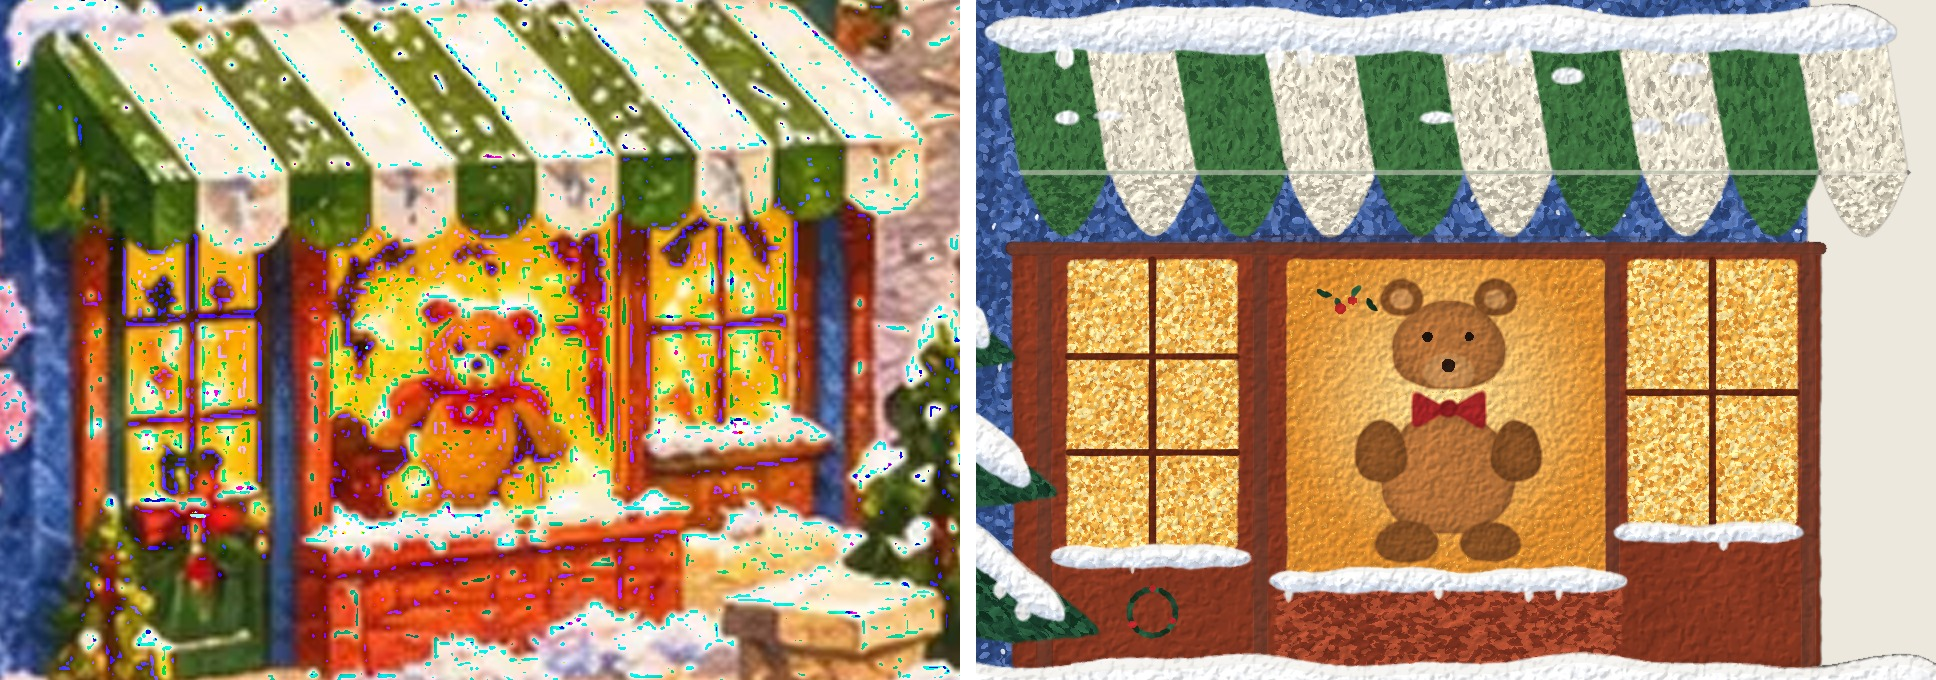
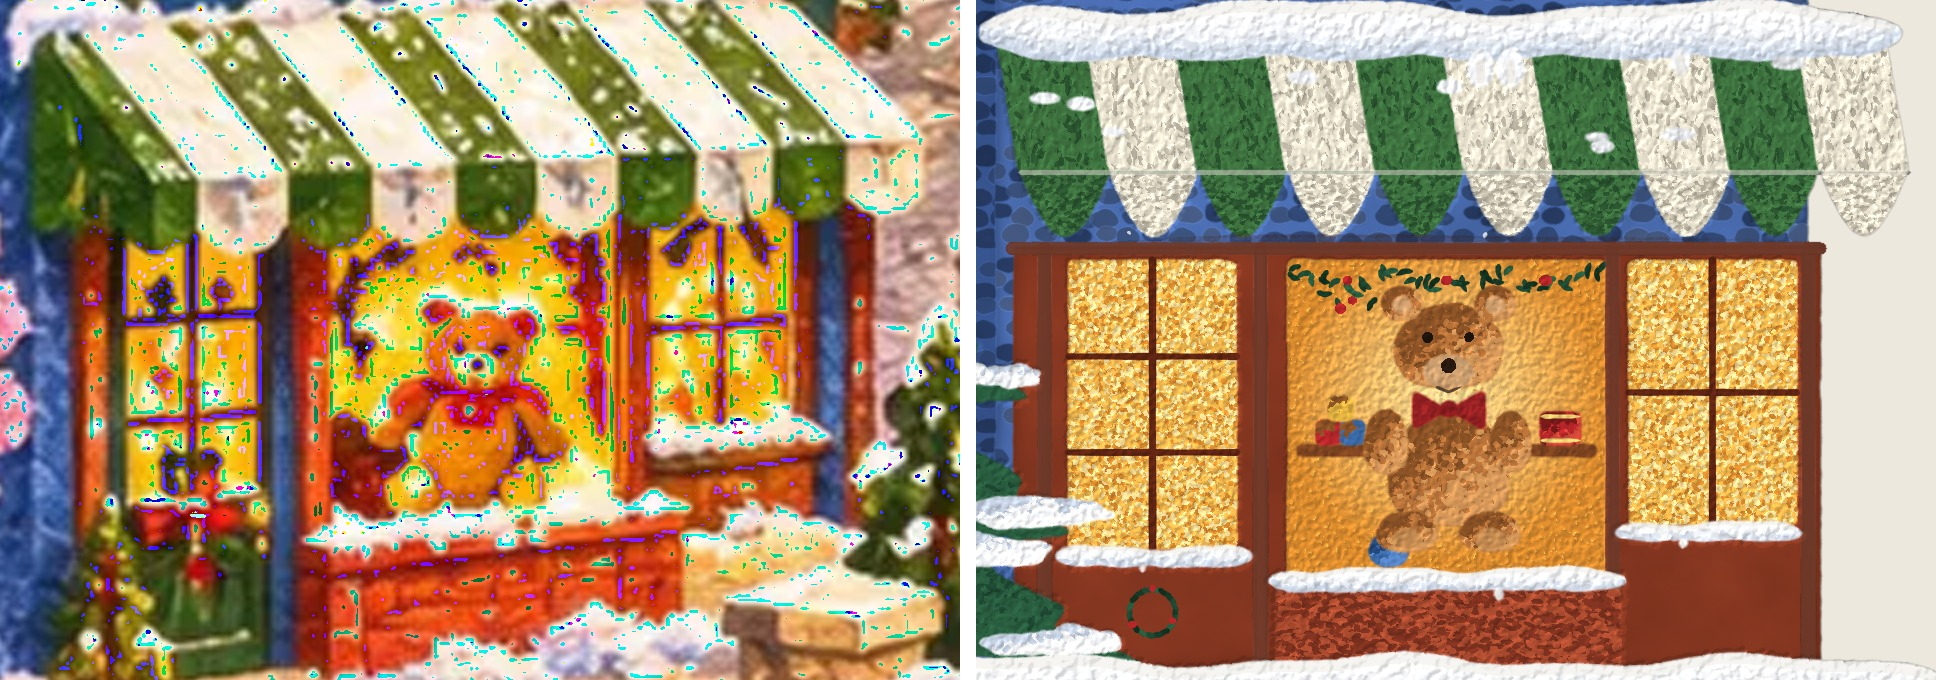
Blue shop v3, refinement round: hand-pressed stucco, tile courses, fuller eaves, branchy snowy fir, shaded bear and display toys
Claude-Session: https://claude.ai/code/session_017tNAHgSCzTbES1SzX2uUW2

Changed region(s): [[0.4959, 0.0, 1.0, 1.0]]

diff --git a/usmap/closeup/toytown/build_blue_shop.py b/usmap/closeup/toytown/build_blue_shop.py
@@ -27,7 +27,7 @@ GLOW = np.zeros((c.H, c.W), np.float32)
 R = np.random.RandomState(12)
 
 # ---- palette (the map's calmer range) ----
-BLUE, BLUE_D, BLUE_L = '#3b5a98', '#2c4478', '#5a78b6'
+BLUE, BLUE_D, BLUE_L = '#4a6cb0', '#37548f', '#6c8ac6'
 CREAM, CREAM_D = '#ecdcbd', '#c9b48f'
 ROOF, ROOF_D = '#953a33', '#6e2925'
 SNOW, SNOW_S, SNOW_H = '#f1f3f7', '#c4cfe0', '#ffffff'
@@ -97,9 +97,11 @@ def snow_edge(pts, thick=7.0, drip=.25, under=True):
         return np.clip(col * (1 + (r.rand(len(X), 1) - .5) * .05), 0, 1)
     c.stip(m, scol, spacing=1.0, L=2.4, w=1.5, seed=int(R.randint(1 << 20)), jit=.5, thresh=.3)
     if drip:
-        for q in lo[2:-2:3]:
-            if R.rand() < drip:
-                A(lump(q[0], q[1] + thick * .25, thick * .28, thick * .45, amp=.08), SNOW, wob=.15, rough=.4, edge_dark=.0)
+        idx = sorted(R.choice(np.arange(2, max(3, len(lo) - 2)), size=max(1, int(len(lo) * drip / 6)), replace=False))
+        for q in [lo[i] for i in idx]:
+            if True:
+                g = R.uniform(.6, 1.4)
+                A(lump(q[0], q[1] + thick * .25 * g, thick * .26 * g, thick * .45 * g, amp=.08), SNOW, wob=.15, rough=.4, edge_dark=.0)
                 S([(q[0], q[1] + thick * .15), (q[0], q[1] + thick * .55)], thick * .2, SNOW_S, a=.35, dry=.4)
     S([tuple(q + np.array([0, thick * .12])) for q in up[1:-1]], thick * .28, SNOW_H, a=.6, dry=.45, taper=(.3, .3))
 
@@ -111,18 +113,52 @@ def eave_shadow(pts, thick=8.0, col=None):
 def snow_cap(x0, x1, y, thick=5.0):
     snow_edge([(x0, y), (x1, y)], thick, drip=.1)
 
+def shaded(pts, cols, light=(-.6, -.8), a=1.0, spacing=.9, L=1.8, w=1.2, **kw):
+    """An area lit from the upper left: its dabs pick light, mid or dark colour by facing."""
+    m = A(pts, cols[1], a=a, **kw)
+    if m is None: return m
+    P = np.array(T(pts)); cx, cy = P.mean(0); rx = max(1, np.ptp(P[:, 0]) / 2); ry = max(1, np.ptp(P[:, 1]) / 2)
+    C = np.array([hexc(x) for x in cols])
+    def f(X, Y, r):
+        lit = np.clip(-((X - cx) / rx * light[0] + (Y - cy) / ry * light[1]) * .7 + .5 + r.randn(len(X)) * .18, 0, .999)
+        idx = (2 - np.floor(lit * 3)).astype(int)
+        return np.clip(C[idx] * (1 + (r.rand(len(X), 1) - .5) * .06), 0, 1)
+    c.stip(m, f, spacing=spacing, L=L, w=w, seed=int(R.randint(1 << 20)), jit=.5, thresh=.3)
+    return m
+
+def snow_clump(cx, cy, rx, ry, ang=0.0):
+    """An irregular clump of snow: two or three overlapping soft heaps, never a neat oval."""
+    ca, sa = math.cos(ang), math.sin(ang)
+    for k in range(R.randint(2, 4)):
+        u = R.uniform(-.55, .55); px, py = cx + ca * rx * u, cy + sa * rx * u - R.uniform(0, ry * .35)
+        snow_lump(px, py, rx * R.uniform(.45, .7), ry * R.uniform(.7, 1.0))
+
+def snow_lump(cx, cy, rx, ry):
+    """A soft heap of snow: white, lit on top, blue-grey in its lower curve."""
+    shaded(lumpy(cx, cy, rx, ry, int(R.randint(1 << 20)), n=22, bumps=6, amp=.28, flat=.3), [SNOW_H, SNOW, SNOW_S], wob=.3, rough=.6, edge_dark=.0, L=2.0, w=1.3)
+
 # ---- walls: gouache ground, then stippled stucco in three blues, flecks of snow ----
 def wall(pts, base, dark=False, fleck=.0):
-    """Stucco in the map's manner: a gouache ground, then mottled dabs in three blues laid in short crossing
-    strokes (the hand-modelled plaster of the reference), a few flecks of snow stuck to it."""
-    m = A(pts, base, wob=.25, rough=.5, edge_dark=.16)
-    cols = [BLUE_D, BLUE, BLUE, BLUE_L] if not dark else [BLUE_D, BLUE_D, BLUE, BLUE]
-    stip(m, cols, spacing=1.6, L=4.0, w=2.3, ang=lambda X, Y: (np.floor(X / 3) + np.floor(Y / 3)) % 2 * 1.2 + .3, weights=[.3, .3, .25, .15])
-    stip(m, [BLUE_D, BLUE_L], spacing=3.0, L=2.4, w=1.4, weights=[.5, .5])
+    """Hand-modelled stucco: a gouache ground, then rounded 'stones' pressed into it, each its own blue with a
+    darker rim where they meet (the cobbled plaster of the reference), a light dab texture, flecks of snow."""
+    m = A(pts, base, wob=.25, rough=.5, edge_dark=.18)
+    prev = c.clipm; c.set_clip(m)
+    x0, y0, mm = m; h, w = mm.shape
+    cols = [BLUE_D, BLUE, BLUE, BLUE_L, '#5a7cbc'] if not dark else [BLUE_D, BLUE_D, BLUE, '#2f4a80']
+    sp = 7.0
+    for gy in np.arange(y0 / K + Y0, (y0 + h) / K + Y0, sp * .8):
+        off = R.uniform(0, sp)
+        for gx in np.arange(x0 / K + X0 - off, (x0 + w) / K + X0, sp):
+            px, py = gx + R.uniform(-1.5, 1.5), gy + R.uniform(-1.2, 1.2)
+            ix, iy = int((px - X0) * K) - x0, int((py - Y0) * K) - y0
+            if not (0 <= ix < w and 0 <= iy < h) or mm[iy, ix] < .3: continue
+            c.area(T(lump(px, py, R.uniform(2.8, 4.0), R.uniform(2.2, 3.1), amp=.18)), cols[R.randint(len(cols))], wob=.15, rough=.5,
+                   edge_dark=.38, var=.05, a=.9, seed=int(R.randint(1 << 20)))
+    c.clipm = prev
     if fleck:
-        x0, y0, mm = m; ys, xs = np.nonzero(mm > .6)
-        for k in R.choice(len(xs), int(len(xs) * fleck / (K * K * 160)), replace=False):
-            c.dab((xs[k] + x0) / K, (ys[k] + y0) / K, R.uniform(1.2, 2.2), R.uniform(.9, 1.3), R.uniform(0, 3), SNOW, a=.85, dry=.15)
+        ys, xs = np.nonzero(mm > .6)
+        for k in R.choice(len(xs), int(len(xs) * fleck / (K * K * 420)), replace=False):
+            c.dab((xs[k] + x0) / K, (ys[k] + y0) / K, R.uniform(1.0, 1.8), R.uniform(.8, 1.1), R.uniform(0, 3), SNOW, a=.8, dry=.15)
     return m
 
 def roof(pts, base=ROOF, snowy=.6, ridge=None, eave=None):
@@ -131,6 +167,20 @@ def roof(pts, base=ROOF, snowy=.6, ridge=None, eave=None):
     m = A(pts, base, wob=.3, rough=.6, edge_dark=.1)
     stip(m, [ROOF, ROOF_D, '#a8463c'], spacing=1.3, L=2.6, w=1.6, weights=[.5, .3, .2])
     if ridge and eave:
+        # tile courses: rows of small scalloped tile ends, parallel to the ridge
+        prev = c.clipm; c.set_clip(m)
+        ra_, rb_, ea_, eb_ = map(np.array, (ridge[0], ridge[1], eave[0], eave[1]))
+        depth = np.linalg.norm((ea_ + eb_) / 2 - (ra_ + rb_) / 2); nrow = int(depth / 4.5)
+        for k in range(1, nrow + 1):
+            u = k / (nrow + .5); a0 = ra_ + (ea_ - ra_) * u; b0 = rb_ + (eb_ - rb_) * u
+            L_ = np.linalg.norm(b0 - a0); dirv = (b0 - a0) / L_; ntile = int(L_ / 5)
+            sh = (k % 2) * .5
+            for t in range(-1, ntile + 1):
+                p = a0 + dirv * 5 * (t + sh)
+                arc = [tuple(p + dirv * 5 * v + np.array([0, 1.6]) * math.sin(math.pi * v)) for v in np.linspace(0, 1, 5)]
+                c.stroke(T(arc), 1.15, ROOF_D, a=.85, dry=.2, taper=(.2, .2), seed=int(R.randint(1 << 20)))
+                c.dab(p[0] - X0 + dirv[0] * 2.5, p[1] - Y0 - .8, 3.2, 1.4, math.atan2(dirv[1], dirv[0]), '#b8564a' if R.rand() < .5 else '#a8443a', a=.75, dry=.2)
+        c.clipm = prev
         (ra, rb), (ea, eb) = (np.array(ridge[0]), np.array(ridge[1])), (np.array(eave[0]), np.array(eave[1]))
         top = [tuple(ra + (rb - ra) * t) for t in np.linspace(0, 1, 12)]
         bot = []; ph = R.uniform(0, 6)
@@ -144,12 +194,10 @@ def roof(pts, base=ROOF, snowy=.6, ridge=None, eave=None):
         S(bot, 3.0, SNOW_H, a=.6, dry=.35, taper=(.2, .2))
         # drifts lying across the tiles below the blanket: soft, elongated along the slope's contour
         dirx = rb - ra; dirx = dirx / np.linalg.norm(dirx)
-        for _ in range(int(np.linalg.norm(rb - ra) / 9)):
+        for _ in range(int(np.linalg.norm(rb - ra) / 14)):
             t = R.uniform(.05, .95); u = R.uniform(snowy + .1, .9)
             a = ra + (rb - ra) * t; b = ea + (eb - ea) * t; p = a + (b - a) * u
-            ln, th = R.uniform(9, 20), R.uniform(2.2, 3.8)
-            pts = [tuple(p + dirx * ln * v) for v in np.linspace(-.5, .5, 5)]
-            snow_edge(pts, th, drip=0)
+            snow_clump(p[0], p[1], R.uniform(10, 18), R.uniform(3.2, 4.8), math.atan2(dirx[1], dirx[0]))
     return m
 
 # ---- windows: cream frame, glowing glass, bars, a sill with snow ----
@@ -234,7 +282,7 @@ def build():
     wall([(203, 760), (300, 760), (300, 520), (252, 446), (205, 520)], BLUE, fleck=.6)
     eave_shadow([(205, 522), (252, 450), (299, 522)], 8)
     S([(203, 522), (252, 446), (301, 522)], 4.2, CREAM, a=1, dry=.15, taper=(0, 0))
-    snow_edge([(200, 520), (252, 443), (305, 520)], 8.5, drip=.3)
+    snow_edge([(196, 523), (252, 441), (309, 523)], 11.0, drip=.35)
     window(233, 485, 268, 521, True)
     window(212, 541, 236, 572, True)
     window(258, 542, 290, 580, False)
@@ -245,15 +293,15 @@ def build():
     window(51, 683, 76, 727, True)
     # the side roof, running down to the left over the wing
     roof([(10, 664), (54, 596), (140, 566), (200, 566), (108, 664)], snowy=.35, ridge=((54, 596), (196, 566)), eave=((10, 664), (108, 664)))
-    snow_edge([(8, 662), (108, 662)], 9.0, drip=.4)
+    snow_edge([(4, 664), (108, 664)], 12.0, drip=.45)
     snow_edge([(10, 662), (54, 596), (140, 566), (196, 566)], 6.0, drip=.0)
     # the front gable
     wall([(100, 902), (303, 902), (303, 662), (200, 566), (100, 662)], BLUE, fleck=.8)
     for yy in (742, 744):
         S([(100, yy), (303, yy)], .6, BLUE_D, a=.4, dry=.4)
     eave_shadow([(102, 664), (200, 568), (300, 664)], 10)
-    S([(96, 664), (200, 563), (306, 664)], 4.6, CREAM, a=1, dry=.15, taper=(0, 0))
-    snow_edge([(92, 664), (200, 558), (310, 664)], 10.0, drip=.35)
+    S([(90, 666), (200, 562), (312, 666)], 5.0, CREAM, a=1, dry=.15, taper=(0, 0))
+    snow_edge([(84, 668), (200, 555), (318, 668)], 13.0, drip=.4)
     window(177, 601, 218, 641, True)
     window(126, 655, 160, 703, True)
     window(182, 655, 215, 703, False)
@@ -274,7 +322,7 @@ def build():
         stip(mv, [dark, col], spacing=.9, L=1.6, w=1.0, ang=0.0, weights=[.45, .55])
     S([(ax0 + 6, ly), (ax1 + 6, ly)], .9, GREEN_AD, a=.5, dry=.4)
     eave_shadow([(ax0 + 8, hem - 2), (ax1 + 6, hem - 2)], 6, WOOD_D)
-    snow_edge([(ax0 - 3, ay - 1), (ax1 + 3, ay - 1)], 8.0, drip=.15)
+    snow_edge([(ax0 - 4, ay - 1), (ax1 + 4, ay - 1)], 10.0, drip=.2)
     for _ in range(9):
         px = R.uniform(ax0 + 10, ax1 - 4); py = R.uniform(ay + 6, ly - 4)
         A(lump(px, py, R.uniform(3, 6), R.uniform(1.4, 2.4)), SNOW, wob=.15, rough=.4, edge_dark=.04)
@@ -287,21 +335,37 @@ def build():
     c.stip(disp, lambda X, Y, r: np.clip((C0 * (1 - np.clip(np.hypot((X - cx) / 40, (Y - cy) / 40), 0, 1)[:, None]) + C1 * np.clip(np.hypot((X - cx) / 40, (Y - cy) / 40), 0, 1)[:, None]) * (1 + (r.rand(len(X), 1) - .5) * .08), 0, 1), spacing=.8, L=1.4, w=1.0, seed=31, jit=.5)
     x0_, y0_, mm = disp; GLOW[y0_:y0_ + mm.shape[0], x0_:x0_ + mm.shape[1]] = np.maximum(GLOW[y0_:y0_ + mm.shape[0], x0_:x0_ + mm.shape[1]], mm * .85)
     # the teddy bear: body, head, ears, muzzle, red bow, paws; a little holly in the corner
-    BEAR, BEAR_D, BEAR_L = '#b9733a', '#8a5226', '#d8995a'
-    def bl(cx, cy, rx, ry, seed=None, amp=.12):          # the bear, 1.3x around its feet
-        return lump(213 + (cx - 213) * 1.3, 862 + (cy - 862) * 1.3, rx * 1.3, ry * 1.3, seed, amp)
-    bp = lambda x, y: (213 + (x - 213) * 1.3, 862 + (y - 862) * 1.3)
-    A(bl(213, 857, 13, 14, amp=.04), BEAR, wob=.1, rough=.3, edge_dark=.2)
-    for s in (-1, 1): A(bl(213 + s * 13, 852, 5, 7, amp=.03), BEAR_D, wob=.1, rough=.3, edge_dark=.15)
-    for s in (-1, 1): A(bl(213 + s * 8, 869, 6, 4.5, amp=.03), BEAR_D, wob=.1, rough=.3)
-    A(bl(213, 832, 11, 10, amp=.03), BEAR, wob=.1, rough=.3, edge_dark=.2)
-    for s in (-1, 1):
-        A(bl(213 + s * 9, 822, 4.2, 4.2, amp=.02), BEAR_D, wob=.05, rough=.2); A(bl(213 + s * 9, 822, 2.2, 2.2, amp=.02), BEAR_L, wob=.05, rough=.2)
-    A(bl(213, 836, 5, 3.8, amp=.02), BEAR_L, wob=.05, rough=.2)
-    c.dots([(bp(213, 834.5)[0] - X0, bp(213, 834.5)[1] - Y0)], 1.6, ['#2a1a12'], seed=3)
-    for s in (-1, 1): c.dots([(bp(213 + s * 4, 829)[0] - X0, bp(213 + s * 4, 829)[1] - Y0)], 1.2, ['#1e140e'], seed=4 + s)
-    for s in (-1, 1): A([bp(213, 843), bp(213 + s * 7, 839), bp(213 + s * 7, 847)], BERRY, wob=.05, rough=.2, edge_dark=.15)
-    A(bl(213, 843, 2, 2), '#9a1e22', wob=.05, rough=.2)
+    BEAR, BEAR_D, BEAR_L = '#b9733a', '#8a5226', '#d8995a'; BC = [BEAR_L, BEAR, BEAR_D]
+    # a shelf at the back with small toys: blocks, a drum, a ball
+    A([(175, 846), (250, 846), (250, 849), (175, 849)], '#8a4a24', wob=.05, rough=.2)
+    for bx, col in ((180, '#b8262a'), (186, '#3a6aa8'), (183, '#e0b040')):
+        shaded([(bx, 846 - (6 if bx != 183 else 12)), (bx + 6, 846 - (6 if bx != 183 else 12)), (bx + 6, 846 - (0 if bx != 183 else 6)), (bx, 846 - (0 if bx != 183 else 6))], [col, col, BEAR_D], wob=.05, rough=.2)
+    shaded([(236, 846), (246, 846), (246, 838), (236, 838)], ['#d84a3a', '#b8262a', '#7a1a1a'], wob=.05, rough=.2)
+    S([(236, 839), (246, 839)], 1.2, '#f0d070', a=1, dry=.05); S([(236, 845), (246, 845)], 1.2, '#f0d070', a=1, dry=.05)
+    shaded(lump(198, 873, 5, 5, amp=0), ['#5a8ad0', '#3a6aa8', '#24467a'], wob=.05, rough=.2)
+    # the bear: shaded body, raised arms, head, ears, muzzle, nose and eyes, a red bow
+    sc = 1.3; bp = lambda px, py: (213 + (px - 213) * sc, 866 + (py - 866) * sc)
+    bl = lambda px, py, rx, ry: lump(*bp(px, py), rx * sc, ry * sc, amp=.04)
+    shaded(bl(213, 857, 12, 13), BC, wob=.1, rough=.3, edge_dark=.2)
+    for sg in (-1, 1):
+        shaded(bl(213 + sg * 12, 851, 4, 7), BC, wob=.1, rough=.3, edge_dark=.15)
+        shaded(bl(213 + sg * 8, 868, 6, 4.5), BC, wob=.1, rough=.3, edge_dark=.15)
+        A(bl(213 + sg * 8, 869, 3, 2.2), BEAR_L, wob=.05, rough=.2)
+    shaded(bl(213, 833, 10.5, 9.5), BC, wob=.1, rough=.3, edge_dark=.2)
+    for sg in (-1, 1):
+        shaded(bl(213 + sg * 9, 824, 4, 4), BC, wob=.05, rough=.2); A(bl(213 + sg * 9, 824, 2, 2), '#e8b07a', wob=.05, rough=.2)
+    A(bl(213, 837, 5, 3.8), '#e2b07c', wob=.05, rough=.2)
+    nx, ny = bp(213, 835.5); c.dots([(nx - X0, ny - Y0)], 1.8, ['#2a1a12'], seed=3)
+    for sg in (-1, 1):
+        ex, ey = bp(213 + sg * 4, 830); c.dots([(ex - X0, ey - Y0)], 1.3, ['#1e140e'], seed=4 + sg)
+    S([bp(210.5, 839.5), bp(213, 840.5), bp(215.5, 839.5)], .8, '#3a2216', a=.9, dry=.05)
+    for sg in (-1, 1): A([bp(213, 844), bp(213 + sg * 7, 840), bp(213 + sg * 7, 848)], BERRY, wob=.05, rough=.2, edge_dark=.2)
+    A(bl(213, 844, 2, 2), '#9a1e22', wob=.05, rough=.2)
+    # a little garland across the top of the display window
+    for t in np.linspace(0, 1, 14):
+        px = 175 + 75 * t; py = 803 + 3 * math.sin(math.pi * (t * 3 % 1))
+        for _ in range(3): c.dab(px - X0 + R.uniform(-2, 2), py - Y0 + R.uniform(-1.5, 1.5), R.uniform(3, 4.5), 1.5, R.uniform(0, 3), NEEDLES[R.randint(4)], a=1, dry=.1)
+    c.dots([(175 + 75 * t - X0, 805 - Y0) for t in (.17, .5, .83)], 1.4, [BERRY], seed=12)
     for k in range(4):
         px, py = 182 + k * 4, 808 + (k % 2) * 3
         c.dab(px - X0, py - Y0, 4, 1.6, R.uniform(0, 3), NEEDLES[k % 4], a=1, dry=.1)
@@ -335,23 +399,27 @@ def build():
     snow_edge([(0, 906), (340, 906)], 9.0, drip=0)
 
 def fir(x, y, h):
-    """A fir in the map's manner (tiers of needle dabs), heavy with snow resting on each tier."""
-    tiers = [(.08, .38, .36), (.26, .56, .30), (.44, .72, .24), (.6, .86, .17), (.75, 1.0, .1)]
-    S([(x, y), (x, y - h * .2)], 4, '#4a3020', a=1, dry=.1)
+    """A fir of drooping, jagged branch tiers (dark needles, lit edges), with irregular clumps of snow lying on
+    the upper surface of each tier and caught at the branch tips."""
+    tiers = [(.05, .34, .40), (.22, .52, .33), (.40, .68, .26), (.56, .83, .19), (.72, 1.0, .11)]
+    S([(x, y), (x, y - h * .2)], 5, '#4a3020', a=1, dry=.1)
     for i, (ta, tb, wd) in enumerate(tiers):
         yb, yt = y - h * ta, y - h * tb; half = wd * h
-        poly = [(x, yt)] + [(x + half * u + R.uniform(-1, 1), yt + (yb - yt) * u ** .85) for u in np.linspace(.15, 1, 6)]
-        poly += [(x + half - 2 * half * k / 6, yb + (2.5 if k % 2 else -1.5)) for k in range(1, 6)]
-        poly += [(x - half * u + R.uniform(-1, 1), yt + (yb - yt) * u ** .85) for u in np.linspace(1, .15, 6)]
-        m = A(poly, NEEDLES[1], wob=.4, rough=.9, edge_dark=.15)
-        stip(m, NEEDLES, spacing=1.0, L=3.4, w=1.3, ang=lambda X, Y: np.where(X < x - X0, math.pi / 2 + .95, math.pi / 2 - .95), weights=[.3, .3, .25, .15])
-        # snow lying along the upper side of each tier, heavier toward the tips, heaped where the branches droop
-        for side in (-1, 1):
-            pts = [(x + side * half * u * .9, yt + (yb - yt) * u ** .85 - 1.0) for u in np.linspace(.12, .96, 6)]
-            snow_edge(pts[1:], 6.0 + i * .3, drip=.35)
-        for k in range(2):
-            px = x + R.uniform(-half * .6, half * .6); snow_edge([(px - 6, yb - 3), (px + 6, yb - 2)], 5.5, drip=.4)
-    snow_edge([(x - 3, y - h * .99), (x + 3, y - h * .99)], 4.5, drip=0)
+        nt = 3 + (i < 3)
+        poly = [(x, yt)]
+        for k in range(1, nt + 1):                              # right side: branch tips stepping out and down
+            u = k / nt; poly += [(x + half * u * .72 + R.uniform(-1, 1), yt + (yb - yt) * u * .92 - 2), (x + half * u + R.uniform(-1, 1.5), yt + (yb - yt) * u + 2.5)]
+        for k in range(1, 8):                                   # the hem: drooping needle tufts
+            poly.append((x + half - 2 * half * k / 8, yb + (3.5 if k % 2 else 0) + R.uniform(-1, 1)))
+        for k in range(nt, 0, -1):
+            u = k / nt; poly += [(x - half * u + R.uniform(-1.5, 1), yt + (yb - yt) * u + 2.5), (x - half * u * .72 + R.uniform(-1, 1), yt + (yb - yt) * u * .92 - 2)]
+        shaded(poly, [NEEDLES[2], NEEDLES[1], NEEDLES[3]], wob=.5, rough=1.0, edge_dark=.22, L=3.2, w=1.3)
+        for _ in range(2 + (i < 2)):                            # snow lying on the tier
+            u = R.uniform(.35, .85); px = x + R.uniform(-1, 1) * half * u * .7; py = yt + (yb - yt) * u - 2
+            snow_clump(px, py, half * R.uniform(.4, .55), R.uniform(4.5, 6.5))
+        for sg in (-1, 1):                                      # and caught at the outer tips
+            snow_clump(x + sg * half * .8, yb - 1.5, half * .3, 4.5)
+    snow_clump(x, y - h * .97, 4, 3.5)
 
 if __name__ == '__main__':
     build()
